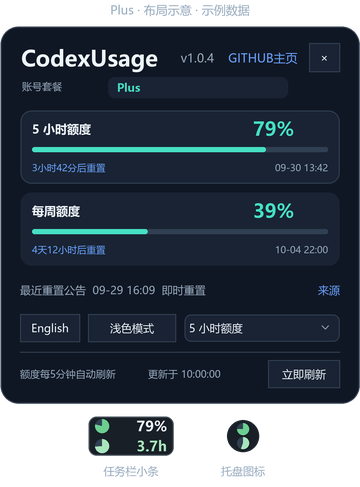
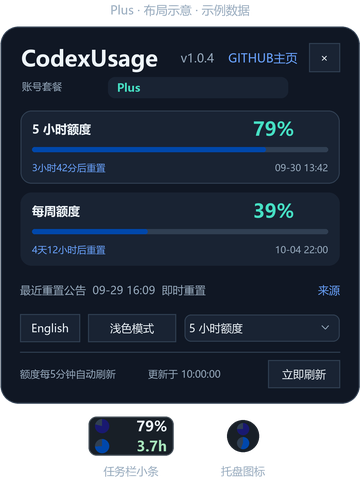
Apply specified blue disks and detail progress colours for v1.0.4

diff --git a/tests/ThemeTests.cs b/tests/ThemeTests.cs
@@ -104,14 +104,15 @@ internal static class ThemeTests
                 using (Bitmap glyph = WidgetRenderer.RenderGlyph(64)) {
                     Color quota = widget.GetPixel(28, 20), time = widget.GetPixel(28, 60);
                     if (mode == "dark") {
-                        foreach (Color pixel in new[] { quota, time, glyph.GetPixel(36, 18), glyph.GetPixel(36, 46) })
-                            Check(pixel.G - pixel.R >= 40 && pixel.G - pixel.B >= 25, "dark quota and time disks remain green");
-                        Check(Luminance(time) - Luminance(quota) >= .15, "dark time disk remains a lighter green");
+                        foreach (Color pixel in new[] { quota, glyph.GetPixel(36, 18) })
+                            Check(ColorDistance(pixel, Color.FromArgb(25, 25, 112)) < 5, "dark quota disk is MidnightBlue #191970");
+                        foreach (Color pixel in new[] { time, glyph.GetPixel(36, 46) })
+                            Check(ColorDistance(pixel, Color.FromArgb(0, 71, 171)) < 5, "dark time disk is CobaltBlue #0047AB");
                     } else {
                         foreach (Color pixel in new[] { quota, glyph.GetPixel(36, 18) })
-                            Check(ColorDistance(pixel, Color.FromArgb(123, 189, 255)) < 5, "light quota disk matches the first supplied swatch");
+                            Check(ColorDistance(pixel, Color.FromArgb(30, 144, 255)) < 5, "light quota disk is DodgerBlue #1E90FF");
                         foreach (Color pixel in new[] { time, glyph.GetPixel(36, 46) })
-                            Check(ColorDistance(pixel, Color.FromArgb(28, 141, 255)) < 5, "light time disk matches the second supplied swatch");
+                            Check(ColorDistance(pixel, Color.FromArgb(135, 206, 235)) < 5, "light time disk is SkyBlue #87CEEB");
                     }
                 }
             });
@@ -151,8 +152,8 @@ internal static class ThemeTests
             QuotaWindow full = Sample(); full.UsedPercent = 0; full.ResetsAtUtc = Now.AddDays(7);
             SetMode("dark"); using (Bitmap dark = Render(2, full, false, false, "")) {
                 SetMode("light"); using (Bitmap light = Render(2, full, false, false, "")) {
-                    Check(ColorDistance(dark.GetPixel(28, 20), light.GetPixel(28, 20)) > 100, "quota disk switches between green and blue");
-                    Check(ColorDistance(dark.GetPixel(28, 60), light.GetPixel(28, 60)) > 100, "time disk switches between green and blue");
+                    Check(ColorDistance(dark.GetPixel(28, 20), light.GetPixel(28, 20)) > 50, "quota disk switches between dark and light palettes");
+                    Check(ColorDistance(dark.GetPixel(28, 60), light.GetPixel(28, 60)) > 50, "time disk switches between dark and light palettes");
                     Check(ColorDistance(dark.GetPixel(1, 40), light.GetPixel(1, 40)) > 150, "widget outline switches its actual stroke colour");
                 }
             }
@@ -209,6 +210,8 @@ internal static class ThemeTests
                 Theme.Rounded(graphics, new RectangleF(left + 22, 110, 426, 122), 12, Theme.Card, Theme.Border);
                 PreviewText(graphics, "Weekly quota", left + 38, 125, 17, Theme.Text); PreviewText(graphics, "63% remaining", left + 38, 157, 22, Theme.Aqua);
                 PreviewText(graphics, "Resets in 5d 0h", left + 38, 194, 13, Theme.Blue);
+                Theme.Rounded(graphics, new RectangleF(left + 38, 218, 394, 5), 2.5f, Theme.Border, null);
+                Theme.Rounded(graphics, new RectangleF(left + 38, 218, 394 * .63f, 5), 2.5f, Theme.WidgetTimeColor, null);
                 string[] labels = { "Normal", "Stale", "Error", "Sync" };
                 for (int row = 0; row < 4; row++) {
                     int top = 264 + row * 83; PreviewText(graphics, labels[row], left + 24, top + 19, 15, row == 1 || row == 2 ? Theme.Warning : Theme.Muted);

diff --git a/scripts/render-previews.py b/scripts/render-previews.py
@@ -19,8 +19,9 @@ MUTED = (150, 169, 188)
 AQUA = (70, 224, 196)
 BLUE = (106, 163, 255)
 WIDGET_BG = (24, 31, 39)
-QUOTA = (108, 207, 145)
-TIME = (168, 229, 188)
+QUOTA = (25, 25, 112)
+TIME = (0, 71, 171)
+TIME_TEXT = (168, 229, 188)
 
 
 class Canvas:
@@ -99,7 +100,7 @@ def render(plan, english, destination, fonts, version):
         canvas.text(label, 32, y + 8, 215, 22, 12, bold=True)
         canvas.text(str(amount) + "%", 253, y + 7, 75, 23, 19, AQUA, True)
         canvas.round(32, y + 37, 296, 5, 2.5, BORDER)
-        canvas.round(32, y + 37, 296 * amount / 100, 5, 2.5, AQUA)
+        canvas.round(32, y + 37, 296 * amount / 100, 5, 2.5, TIME)
         canvas.text(countdown, 32, y + 49, 170, 17, 9.5, BLUE)
         canvas.text(reset, 204, y + 49, 124, 17, 9.5, MUTED, align="right")
     canvas.text("Latest reset  09-29 16:09  Regular" if english else "最近重置公告  09-29 16:09  即时重置", 20, top + 84 + cards_height + 10, 262, 28, 11, MUTED)
@@ -124,7 +125,7 @@ def render(plan, english, destination, fonts, version):
     hours_left, window_hours = (3.7, 5) if plan == "Plus" else (108.0, 168)
     canvas.disk(95, icon_y + 23, 14, hours_left / window_hours * 100, TIME)
     canvas.text(str(windows[0][1]) + "%", 116, icon_y, 51, 20, 14, TEXT, True, "right")
-    canvas.text(f"{hours_left:.1f}h", 116, icon_y + 20, 51, 20, 14, TIME, True, "right")
+    canvas.text(f"{hours_left:.1f}h", 116, icon_y + 20, 51, 20, 14, TIME_TEXT, True, "right")
     canvas.draw.ellipse(tuple(round(v * SCALE) for v in (227, icon_y + 4, 259, icon_y + 36)), WIDGET_BG)
     canvas.disk(237, icon_y + 7, 12, 75, QUOTA)
     canvas.disk(237, icon_y + 21, 12, 200 / 3.6, TIME)

diff --git a/src/Theme.cs b/src/Theme.cs
@@ -12,12 +12,12 @@ namespace CodexQuotaLite
             Color.FromArgb(16, 23, 36), Color.FromArgb(25, 35, 51), Color.FromArgb(48, 63, 82),
             Color.FromArgb(238, 245, 250), Color.FromArgb(150, 169, 188), Color.FromArgb(70, 224, 196),
             Color.FromArgb(106, 163, 255), Color.FromArgb(245, 193, 117),
-            Color.FromArgb(24, 31, 39), Color.FromArgb(108, 207, 145), Color.FromArgb(168, 229, 188), Color.FromArgb(168, 229, 188), Color.FromArgb(66, 77, 86));
+            Color.FromArgb(24, 31, 39), Color.FromArgb(25, 25, 112), Color.FromArgb(0, 71, 171), Color.FromArgb(168, 229, 188), Color.FromArgb(66, 77, 86));
         private static readonly Palette Light = new Palette("light",
             Color.FromArgb(229, 229, 229), Color.FromArgb(239, 239, 239), Color.FromArgb(216, 224, 234),
             Color.FromArgb(31, 42, 55), Color.FromArgb(79, 96, 114), Color.FromArgb(0, 107, 97),
             Color.FromArgb(32, 86, 170), Color.FromArgb(139, 82, 0),
-            Color.FromArgb(232, 232, 232), Color.FromArgb(123, 189, 255), Color.FromArgb(28, 141, 255), Color.FromArgb(32, 86, 170), Color.FromArgb(174, 185, 199));
+            Color.FromArgb(232, 232, 232), Color.FromArgb(30, 144, 255), Color.FromArgb(135, 206, 235), Color.FromArgb(32, 86, 170), Color.FromArgb(174, 185, 199));
         private static Palette current = Dark;
 
         internal static void Apply(string mode) { current = mode == "light" ? Light : Dark; }

diff --git a/src/DetailsForm.cs b/src/DetailsForm.cs
@@ -198,7 +198,7 @@ namespace CodexQuotaLite
    Theme.Rounded(g,new RectangleF(.5f,.5f,Width-1,Height-1),11*s,Theme.Card,selected?Theme.Border:(Color?)null);
    Theme.Write(g,UiText.WindowLabel(window.Label),12,8,width-105,22,12,Theme.Text,true,s);Theme.Write(g,pending?UiText.T("待更新","Pending"):Theme.Percent(window.RemainingPercent),width-87,7,75,23,pending?13:19,color,true,s);
    RectangleF track=new RectangleF(12*s,37*s,(width-24)*s,5*s);Theme.Rounded(g,track,2.5f*s,Theme.Border,null);
-   if(!pending&&window.RemainingPercent.HasValue&&window.RemainingPercent.Value>0){track.Width*=(float)(window.RemainingPercent.Value/100);Theme.Rounded(g,track,2.5f*s,color,null);}
+   if(!pending&&window.RemainingPercent.HasValue&&window.RemainingPercent.Value>0){track.Width*=(float)(window.RemainingPercent.Value/100);Theme.Rounded(g,track,2.5f*s,stale?Theme.Muted:Theme.WidgetTimeColor,null);}
    string countdown=stale?UiText.T("上次结果 · 已过期","Previous result · Out of date"):pending?UiText.T("已重置 · 待更新","Reset reached · Pending"):Theme.ResetText(window,now);
    Theme.Write(g,countdown,12,49,width-150,17,9.5f,stale||pending?Theme.Warning:Theme.Blue,false,s);
    string reset=window.ResetsAtUtc.HasValue?window.ResetsAtUtc.Value.ToLocalTime().ToString("MM-dd HH:mm"):UiText.T("重置时间未知","Reset unknown");

diff --git a/docs/TESTING.md b/docs/TESTING.md
@@ -81,6 +81,10 @@ Stacking tests production ordering decisions, event filtering and queue coalesci
 
 ## 结果 / Results
 
+2026-09-30 本地四色配色修订（仍为 1.0.4，未替换发行附件）：深色饼图 #191970/#0047AB，浅色 #1E90FF/#87CEEB；详情进度条分别为 #0047AB/#87CEEB。其余文字、背景、布局和原过期状态颜色保持不变。All 263 项通过后，按最终要求保留原倒计时文字色并更新详情进度条，重新构建与 Theme 25/25 检查均通过。最终最低文字对比度为深色 6.24:1、浅色 4.81:1；已检查配色位图，原生 GUI 交互未执行。指定的 MidnightBlue 饼图本身偏暗，文字对比度检查不代表图形对比度达到同一数值。
+
+The local four-colour revision on 2026-09-30 retains version 1.0.4 and has not replaced release assets. Dark disks use #191970/#0047AB; light disks use #1E90FF/#87CEEB. Detail progress bars use #0047AB/#87CEEB. Other text, backgrounds, layout and stale-state colours are unchanged. After All passed 263 checks, the final countdown text was kept unchanged and detail progress fills updated; the final build and Theme 25/25 passed again. Minimum text contrast is 6.24:1 dark and 4.81:1 light. Rendered bitmaps were inspected; native GUI interaction was not executed. The specified MidnightBlue disk is deliberately dark; text contrast results do not describe graphical contrast.
+
 发布前复验：2026-09-30 在最终 v1.0.4 生产源码上重新运行 All，Domain 37、Bridge 14、ResetFeed 46、Theme 25、Layout 121、Stacking 20，共 **263 项通过、0 失败**。随后仅整理发布文档、示例图和包内说明，不改动生产代码；发行 EXE 沿用已验证的 1.0.4.0 构建。
 
 Pre-release verification on 2026-09-30 reran All against the final v1.0.4 production source: Domain 37, Bridge 14, ResetFeed 46, Theme 25, Layout 121 and Stacking 20 — **263 checks passed, zero failures**. Subsequent changes only prepare release documentation, illustrations and package notes; production code is unchanged and the release reuses the verified 1.0.4.0 executable.

diff --git a/README.en.md b/README.en.md
@@ -8,6 +8,8 @@ A lightweight Windows widget for Codex quota and reset time, next to the notific
 
 For Windows x64.
 
+Local four-colour revision (still v1.0.4): taskbar and tray disks use MidnightBlue / CobaltBlue in dark mode and DodgerBlue / SkyBlue in light mode. Detail progress bars use CobaltBlue / SkyBlue respectively; text, backgrounds and layout are unchanged. This revision has not replaced the GitHub release assets linked above.
+
 ![CodexUsage taskbar widget](assets/widget-preview.png)
 
 ## Features
@@ -46,7 +48,7 @@ Requires Windows x64, .NET Framework 4.8 or a newer 4.x version, and Codex insta
 
 Hover for a quick summary; move away or click to dismiss it. Right-click for the menu. The detail header shows the version and a link to the GitHub project.
 
-Change appearance with the Light mode / Dark mode button in the details view, or right-click the widget or tray icon and choose Appearance → Dark mode / Light mode. Language, theme and quota selection share one row. Light mode uses a soft neutral-gray background, with light blue #7BBDFF and blue #1C8DFF quota and time disks. Dark mode retains its light green and lighter green palette. The widget, details, dropdown, tooltip and tray icon update without a restart; the next launch restores your choice.
+Change appearance with the Light mode / Dark mode button in the details view, or right-click the widget or tray icon and choose Appearance → Dark mode / Light mode. Language, theme and quota selection share one row. The upper quota / lower time disks use MidnightBlue #191970 / CobaltBlue #0047AB in dark mode, and DodgerBlue #1E90FF / SkyBlue #87CEEB in light mode. Detail quota progress bars use #0047AB in dark mode and #87CEEB in light mode; backgrounds, text colours and stale-state colours are unchanged. Theme switching needs no restart; the next launch restores your choice.
 
 To update, exit the old version from the tray, then replace the EXE. Settings live in `%LOCALAPPDATA%\CodexUsage`; existing settings beside the EXE are imported on first run.
 

diff --git a/README.md b/README.md
@@ -8,6 +8,8 @@
 
 适用于 Windows x64。
 
+本地四色配色修订（版本仍为 v1.0.4）：任务栏与托盘饼图在深色使用 MidnightBlue / CobaltBlue，浅色使用 DodgerBlue / SkyBlue；弹窗进度条分别使用 CobaltBlue / SkyBlue，文字、背景和布局保持原样。该修订尚未替换上方 GitHub 发行附件。
+
 ![CodexUsage 任务栏小条](assets/widget-preview.png)
 
 ## 功能
@@ -46,7 +48,7 @@
 
 悬停额度条可查看简要说明，移开或点击即关闭；右键打开菜单。详情顶部可查看版本号，并打开 GitHub 项目主页。
 
-切换外观：点击详情页中的“浅色模式／深色模式”按钮，或在额度条／托盘图标上右键，选择“外观 → 深色模式／浅色模式”。语言、主题和额度选择位于同一行。浅色采用柔和的中性浅灰背景，额度和时间饼图分别为浅蓝 #7BBDFF 和蓝色 #1C8DFF；深色保持浅绿与更浅绿配色。额度条、详情、下拉菜单、提示框和托盘图标同步换色，无需重启；下次启动恢复上次选择。
+切换外观：点击详情页中的“浅色模式／深色模式”按钮，或在额度条／托盘图标上右键，选择“外观 → 深色模式／浅色模式”。语言、主题和额度选择位于同一行。上方额度／下方时间饼图在深色模式分别为 MidnightBlue #191970／CobaltBlue #0047AB，浅色模式分别为 DodgerBlue #1E90FF／SkyBlue #87CEEB。详情弹窗的额度进度条在深色使用 #0047AB、浅色使用 #87CEEB；背景和文字颜色保持原样，过期状态仍使用原提示色。主题切换无需重启；下次启动恢复上次选择。
 
 升级时先从托盘退出旧版，再替换 EXE。设置保存在 `%LOCALAPPDATA%\CodexUsage`，首次运行会导入同目录旧版的设置。
 

diff --git a/CHANGELOG.md b/CHANGELOG.md
@@ -1,5 +1,10 @@
 # Changelog
 
+## 1.0.4 本地配色修订 / Local palette revision — Unreleased
+
+- 任务栏与托盘的额度／时间饼图：深色改为 MidnightBlue #191970／CobaltBlue #0047AB，浅色改为 DodgerBlue #1E90FF／SkyBlue #87CEEB。详情弹窗进度条分别为深色 #0047AB／浅色 #87CEEB。文字、背景、布局、过期提示、功能与版本号不变。
+  Taskbar and tray quota/time disks use MidnightBlue #191970 / CobaltBlue #0047AB in dark mode and DodgerBlue #1E90FF / SkyBlue #87CEEB in light mode. Detail progress bars use #0047AB / #87CEEB respectively. Text, backgrounds, layout, stale-state styling, functionality and version are unchanged.
+
 ## 1.0.4 — 2026-09-30
 
 - 针对任务栏周期遮挡额度浮条的层级闪烁：监听桌面层级变化，合并排队后仅在任务栏确实位于浮条上方时恢复；保留每秒兜底检查，稳定状态不再反复置顶。
